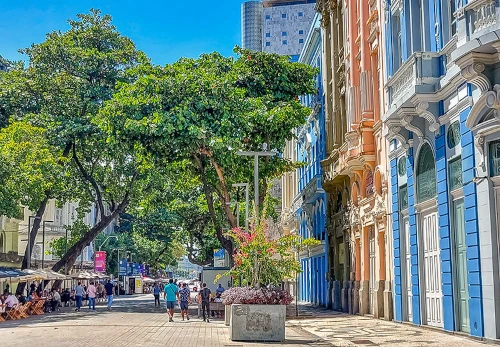
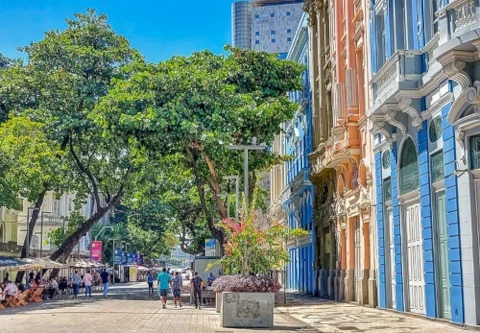
adjusting image ratio

diff --git a/chamber/discover.html b/chamber/discover.html
@@ -19,9 +19,9 @@
 <body>
     <header>
         <div id="mode">
-            <label class="switch">
-            <input id="checkbox" type="checkbox">
-            <span class="slider"></span>
+            <label for="checkbox" class="switch">
+                <input id="checkbox" type="checkbox" name="checkbox">
+                <span class="slider"></span>
             </label>
         </div> 
         <div class="social-media">
@@ -65,27 +65,27 @@
             </div>
             <div class="photos">
                 <figure>
-                    <img class="hover" src="images/mercado-de-sao-jose.webp" alt="São José Marketplace" width="480"  height="300" loading="lazy">
+                    <img class="hover" src="images/mercado-de-sao-jose.webp" alt="São José Marketplace" width="480"  height="310" loading="lazy">
                     <figcaption>Sao Jose Marketplace </figcaption>
                 </figure>
                 <figure>
-                    <img class="hover" src="images/recife-antigo.webp" alt="Recife Antigo" width="480" height="330" loading="lazy">
+                    <img class="hover" src="images/recife-antigo.webp" alt="Recife Antigo" width="480" height="333" loading="lazy">
                     <figcaption>Old Recife Square</figcaption>
                 </figure>
                 <figure>
-                    <img class="hover" src="images/recife-antigo_commerce-palace.webp" alt="Commerce Palace" width="480" height="330" loading="lazy">
+                    <img class="hover" src="images/recife-antigo_commerce-palace.webp" alt="Commerce Palace" width="480" height="360" loading="lazy">
                     <figcaption>Recife Commerce Palace</figcaption>
                 </figure>
                 <figure>
-                    <img class="hover" src="images/recife-antigo-handcraft.webp" alt="Recife Handcraft Center" width="480" height="330" loading="lazy">
+                    <img class="hover" src="images/recife-antigo-handcraft.webp" alt="Recife Handcraft Center" width="480" height="360" loading="lazy">
                     <figcaption>Recife Handcraft Center</figcaption>
                 </figure>
                 <figure>
-                    <img class="hover" src="images/recife-antigo-bookstore.webp" alt="Recife Bookstore" width="480" height="330" loading="lazy">
+                    <img class="hover" src="images/recife-antigo-bookstore.webp" alt="Recife Bookstore" width="480" height="360" loading="lazy">
                     <figcaption>Recife Center Bookstore</figcaption>
                 </figure>
                 <figure>
-                    <img class="hover" src="images/teatro-sta.webp" alt="Saint Elizabeth Theater" width="480" height="330" loading="lazy">
+                    <img class="hover" src="images/teatro-sta.webp" alt="Saint Elizabeth Theater" width="480" height="303" loading="lazy">
                     <figcaption>Saint Elizabeth Theater</figcaption>
                 </figure>
             </div>

diff --git a/chamber/index.html b/chamber/index.html
@@ -19,9 +19,9 @@
 <body>
     <header>
         <div id="mode">
-            <label class="switch">
-            <input id="checkbox" type="checkbox">
-            <span class="slider"></span>
+            <label for="checkbox" class="switch">
+                <input id="checkbox" type="checkbox" name="checkbox">
+                <span class="slider"></span>
             </label>
         </div> 
         <div class="social-media">

diff --git a/chamber/styles/larger.css b/chamber/styles/larger.css
@@ -248,7 +248,7 @@ footer
 .photos img 
 {
     border-radius: 15px 150px;
-    width: 500px;
+    width: 100%;
     padding: 0;
 }
 
